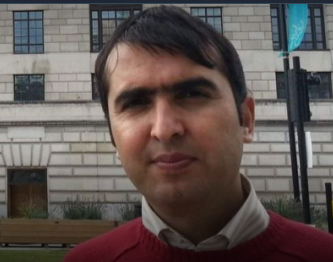
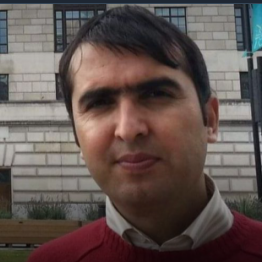
added CSS to testimonials and fixed the image ratio problem

diff --git a/capstone/src/components/testi/testi.jsx b/capstone/src/components/testi/testi.jsx
@@ -1,36 +1,41 @@
-import React from 'react'
-import './testi'
-import IMG1 from '../../assests/avatar 1.png'
-import IMG2 from '../../assests/avatar 2.png'
+import React from "react";
+import "./testi.css";
+import IMG1 from "../../assests/avatar 1.png";
+import IMG2 from "../../assests/avatar 2.png";
 const Testi = () => {
   return (
-    <section id='testi'>
+    <section id="testi">
       <h5>Review from others</h5>
       <h2>Testimonials</h2>
 
       <div className="container testimonials__container">
-        <article className='testimonials'>
-          <div className='avatar'>
-            <img src={IMG1} alt="avatar" />
-            <h5 className='avatar__name'>Dr.hawre</h5>
-            <small className='review'>
-              lorem 
-            </small>
+        <article className="testimonials">
+          <div className="avatar">
+            <img src={IMG1} alt="avata" />
           </div>
+          <h5 className="avatar__name">Dr.hawre</h5>
+          <small className="review">
+            Lorem ipsum dolor sit amet consectetur adipisicing elit. Quia, iusto
+            praesentium. Repellat, numquam quidem esse animi nihil quas neque
+            quam repudiandae hic possimus, ipsam ipsum debitis consequatur
+            veritatis? Voluptates, illum?
+          </small>
         </article>
 
-        <article className='testimonials'>
-          <div className='avatar'>
+        <article className="testimonials">
+          <div className="avatar">
             <img src={IMG2} alt="avatar" />
-            <h5 className='avatar__name'>Dr.Dilshad</h5>
-            <small className='review'>
-              lorem 
-            </small>
           </div>
+          <h5 className="avatar__name">Dr.Dilshad</h5>
+          <small className="review">    Lorem ipsum dolor sit amet consectetur adipisicing elit. Quia, iusto
+            praesentium. Repellat, numquam quidem esse animi nihil quas neque
+            quam repudiandae hic possimus, ipsam ipsum debitis consequatur
+            veritatis? Voluptates, illum?
+            </small>
         </article>
       </div>
     </section>
-  )
-}
+  );
+};
 
-export default Testi
+export default Testi;

diff --git a/capstone/src/components/testi/testi.css b/capstone/src/components/testi/testi.css
@@ -1,0 +1,27 @@
+.container.testimonials__container {
+    width: 40%;
+    gap: 2.5rem;
+}
+.avatar{
+    width: 40%;
+    aspect-ratio: 1/1;
+    overflow: hidden;
+    border-radius: 50%;
+    margin: 0 auto 1rem;
+    border: 0.4rem solid  var(--color-prime-var);
+}
+.testimonials{
+    background: var(--color-bg-vari);
+    text-align: center;
+    padding: 2rem;
+    border-radius: 2rem;
+    user-select: none;
+}
+
+.review{
+    color: var(--color-light);
+    font-weight: 300;
+    display: block;
+    width: 80%;
+    margin: 0.8rem auto 0;
+}
